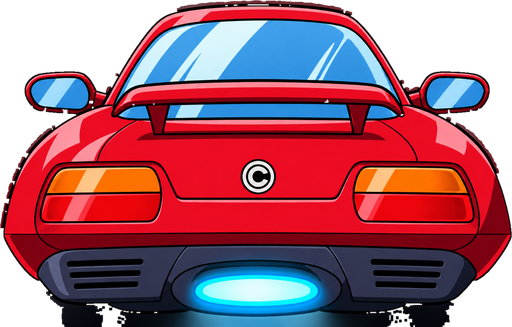
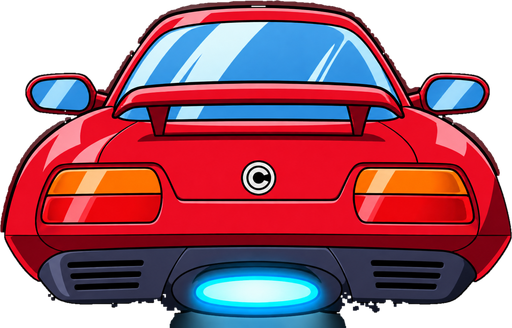
Hover-bike run: the owner's taxi as hover car 2
remove_checker.py --dark also clears near-black pixels of any tint, so the
dark blue shadow under a car goes while its lit navy underside stays. Both
car cut-outs redone; settings recorded in art_sources/README.md.

Claude-Session: https://claude.ai/code/session_01RaZEpvpEyJtuTcNmQxKCJD

diff --git a/tools/remove_checker.py b/tools/remove_checker.py
@@ -32,11 +32,12 @@ def checker_mask(rgb):
 
 def dark_mask(rgb, limit):
     """
-    Pixels no brighter than [limit] in any channel that aren't tinted blue: a black
-    or warm backdrop and glow, but not the dark navy of a car's underside.
+    Near-black pixels, and pixels no brighter than [limit] in any channel that aren't
+    tinted blue: a black or warm backdrop and glow, but not the navy of a car's underside.
     """
     rgb = rgb.astype(np.int16)
-    return (rgb.max(axis=2) <= limit) & (rgb[:, :, 2] - rgb[:, :, 0] <= 8)
+    bright = rgb.max(axis=2)
+    return (bright <= 35) | ((bright <= limit) & (rgb[:, :, 2] - rgb[:, :, 0] <= 8))
 
 
 def grow(mask, pixels):

diff --git a/ART_LIST.md b/ART_LIST.md
@@ -40,7 +40,7 @@ centred. "Free" images are shown whole on a transparent background.
 | `bike_building_3` | `bike_building_3.png` | The hover-bike run: a roadside building, front or three-quarter view, standing on the bottom edge, transparent around it. Stood beside the road angled towards you; how wide it stands is set per slot in GameConfig (dome 18 m, shop 14 m, apartments 17 m, office tower 22 m) and its height follows the picture. Trimmed to the building, keeping its proportions. Until set, the 3D buildings are used. | 1024 × 1024 | free, optional |
 | `bike_building_4` | `bike_building_4.png` | The hover-bike run: a roadside building, front or three-quarter view, standing on the bottom edge, transparent around it. Stood beside the road angled towards you; how wide it stands is set per slot in GameConfig (dome 18 m, shop 14 m, apartments 17 m, office tower 22 m) and its height follows the picture. Trimmed to the building, keeping its proportions. Until set, the 3D buildings are used. | 1024 × 1024 | free, optional |
 | `bike_car_1` | `bike_car_1.png` | The hover-bike run: a hover car seen from behind, on a transparent background, its underside on the bottom edge. Floats over the road about 2.3 m wide; the game adds the shadow. Until set, the 3D cars are used. | 512 × 512 | free, optional |
-| `bike_car_2` | `bike_car_2.png` *(none yet)* | The hover-bike run: a hover car seen from behind, on a transparent background, its underside on the bottom edge. Floats over the road about 2.3 m wide; the game adds the shadow. Until set, the 3D cars are used. | 512 × 512 | free, optional |
+| `bike_car_2` | `bike_car_2.png` | The hover-bike run: a hover car seen from behind, on a transparent background, its underside on the bottom edge. Floats over the road about 2.3 m wide; the game adds the shadow. Until set, the 3D cars are used. | 512 × 512 | free, optional |
 | `bike_car_3` | `bike_car_3.png` *(none yet)* | The hover-bike run: a hover car seen from behind, on a transparent background, its underside on the bottom edge. Floats over the road about 2.3 m wide; the game adds the shadow. Until set, the 3D cars are used. | 512 × 512 | free, optional |
 | `bike_palm` | `bike_palm.png` *(none yet)* | The hover-bike run: a palm tree, trunk foot on the bottom edge, transparent around it. About 8 m tall beside the road. Until set, the 3D palms are used. | 512 × 1024 | free, optional |
 | `bike_person_1` | `bike_person_1.png` *(none yet)* | The hover-bike run: someone standing or walking on the pavement, feet on the bottom edge, transparent around them. About 1.75 m tall; just scenery, you can't hit them. Until set, there are no pedestrians. | 256 × 512 | free, optional |

diff --git a/art_sources/README.md b/art_sources/README.md
@@ -11,3 +11,10 @@ background, first run `tools/remove_bg.py <source> <cut.png>`.
 
 For full figures (bosses, the dragon): `tools/fit_figure.py <source> <out.png> <preview.png> <width> <height>`
 trims the empty edges and centres the figure in the target size.
+
+For pictures that arrive with their background painted in:
+`tools/remove_checker.py <source> <cut.png>` clears a grey-and-white
+checkerboard (used for `bike_building_1`), and
+`tools/remove_checker.py <source> <cut.png> --dark <limit>` clears a black
+backdrop with a glow (`bike_car_1` at 100, `bike_car_2` at 150). Then trim to
+the figure and fit it inside the key's size, keeping its proportions.
